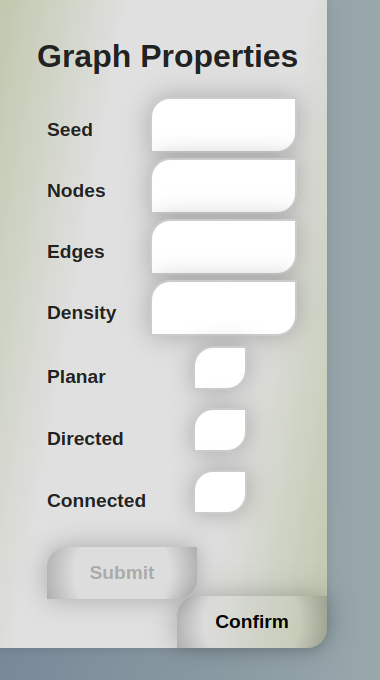
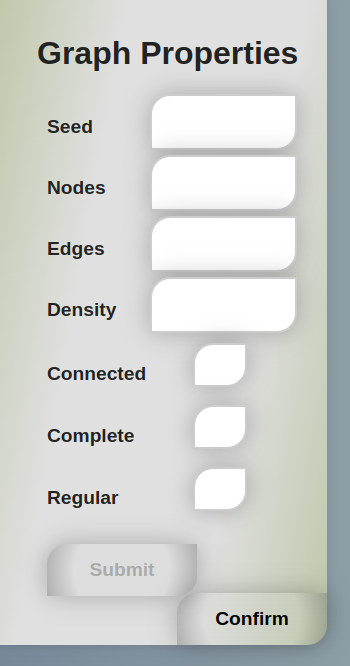
Add files via upload

diff --git a/visual/visual.html b/visual/visual.html
@@ -26,19 +26,19 @@
                 <input type="number" id="density" name="density" value="0.05" step="0.001" min="0" max="1" required>
             </div>
             <div class="checkbox-row">
-                <label class="custom-checkbox-container">Planar
-                    <input type="checkbox" id="planar" name="planar">
-                    <span class="checkmark"></span>
-                </label>
-            </div>
-            <div class="checkbox-row">
-                <label class="custom-checkbox-container">Directed
-                    <input type="checkbox" id="directed" name="directed">
-                    <span class="checkmark"></span>
-                </label>
-            </div>
-            <div class="checkbox-row">
                 <label class="custom-checkbox-container">Connected
+                    <input type="checkbox" id="regular" name="regular">
+                    <span class="checkmark"></span>
+                </label>
+            </div>
+            <div class="checkbox-row">
+                <label class="custom-checkbox-container">Complete
+                    <input type="checkbox" id="complete" name="complete">
+                    <span class="checkmark"></span>
+                </label>
+            </div>
+            <div class="checkbox-row">
+                <label class="custom-checkbox-container">Regular
                     <input type="checkbox" id="Connected" name="connected" checked>
                     <span class="checkmark"></span>
                 </label>
